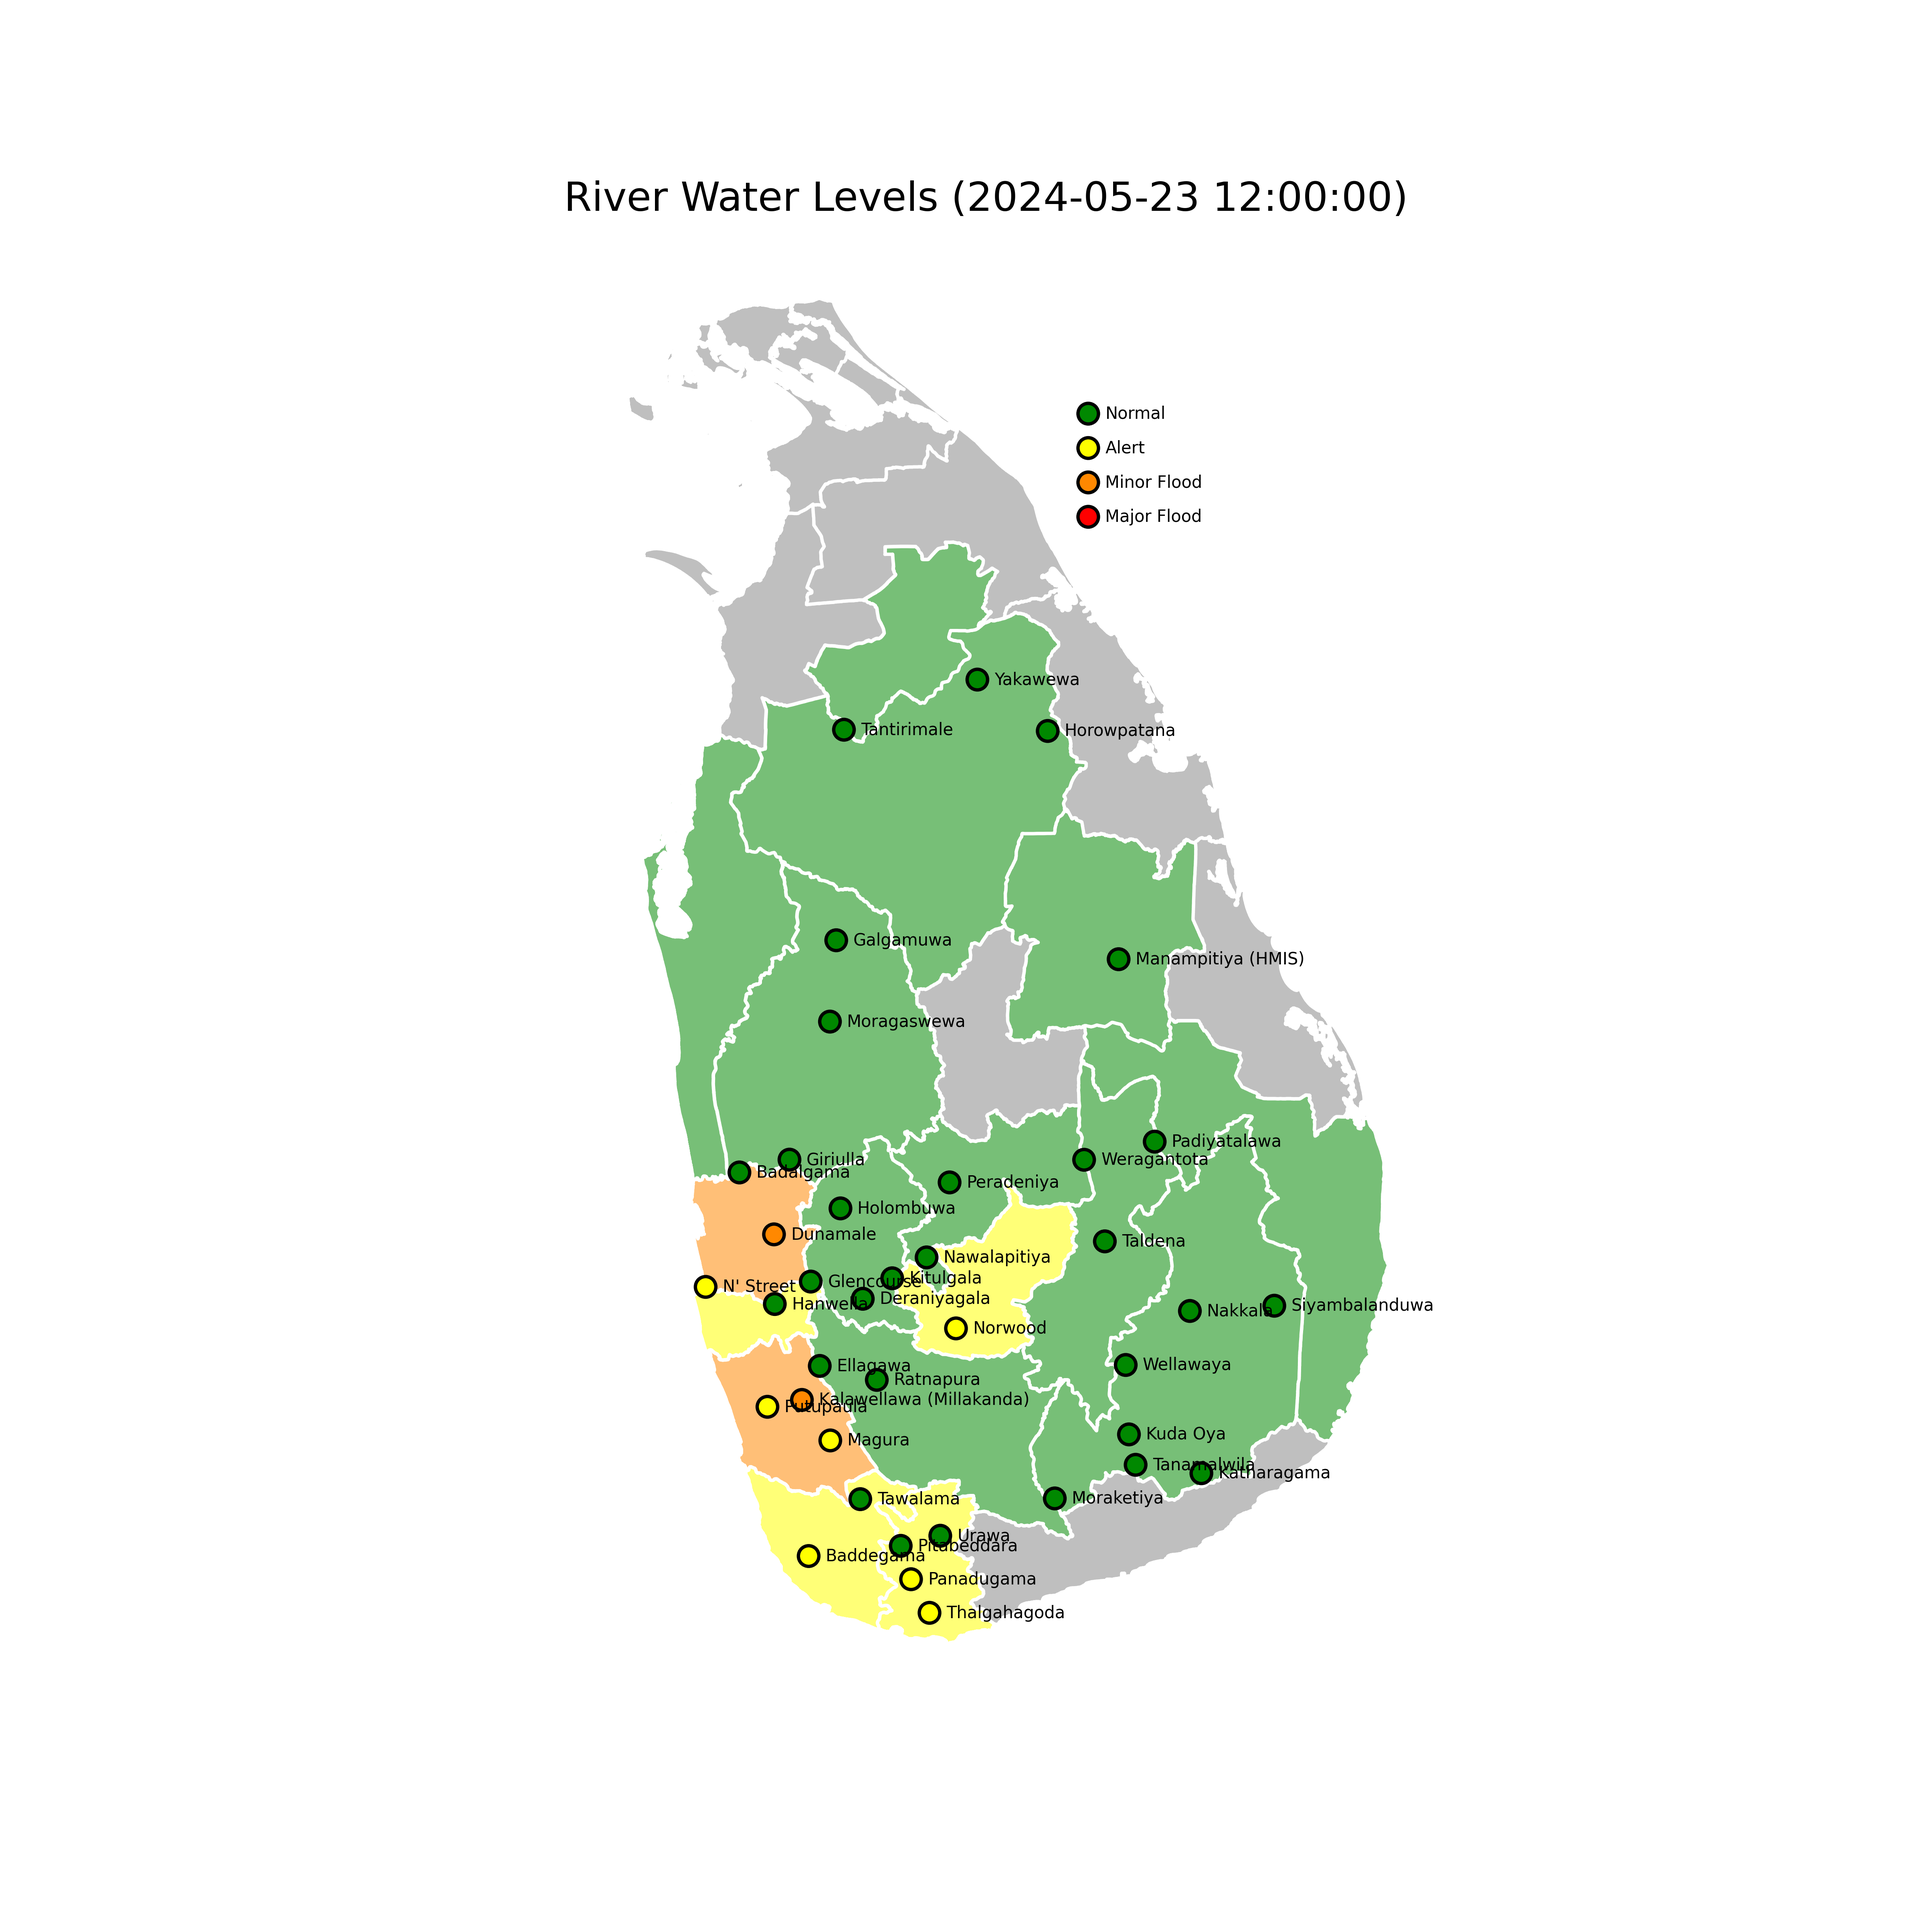
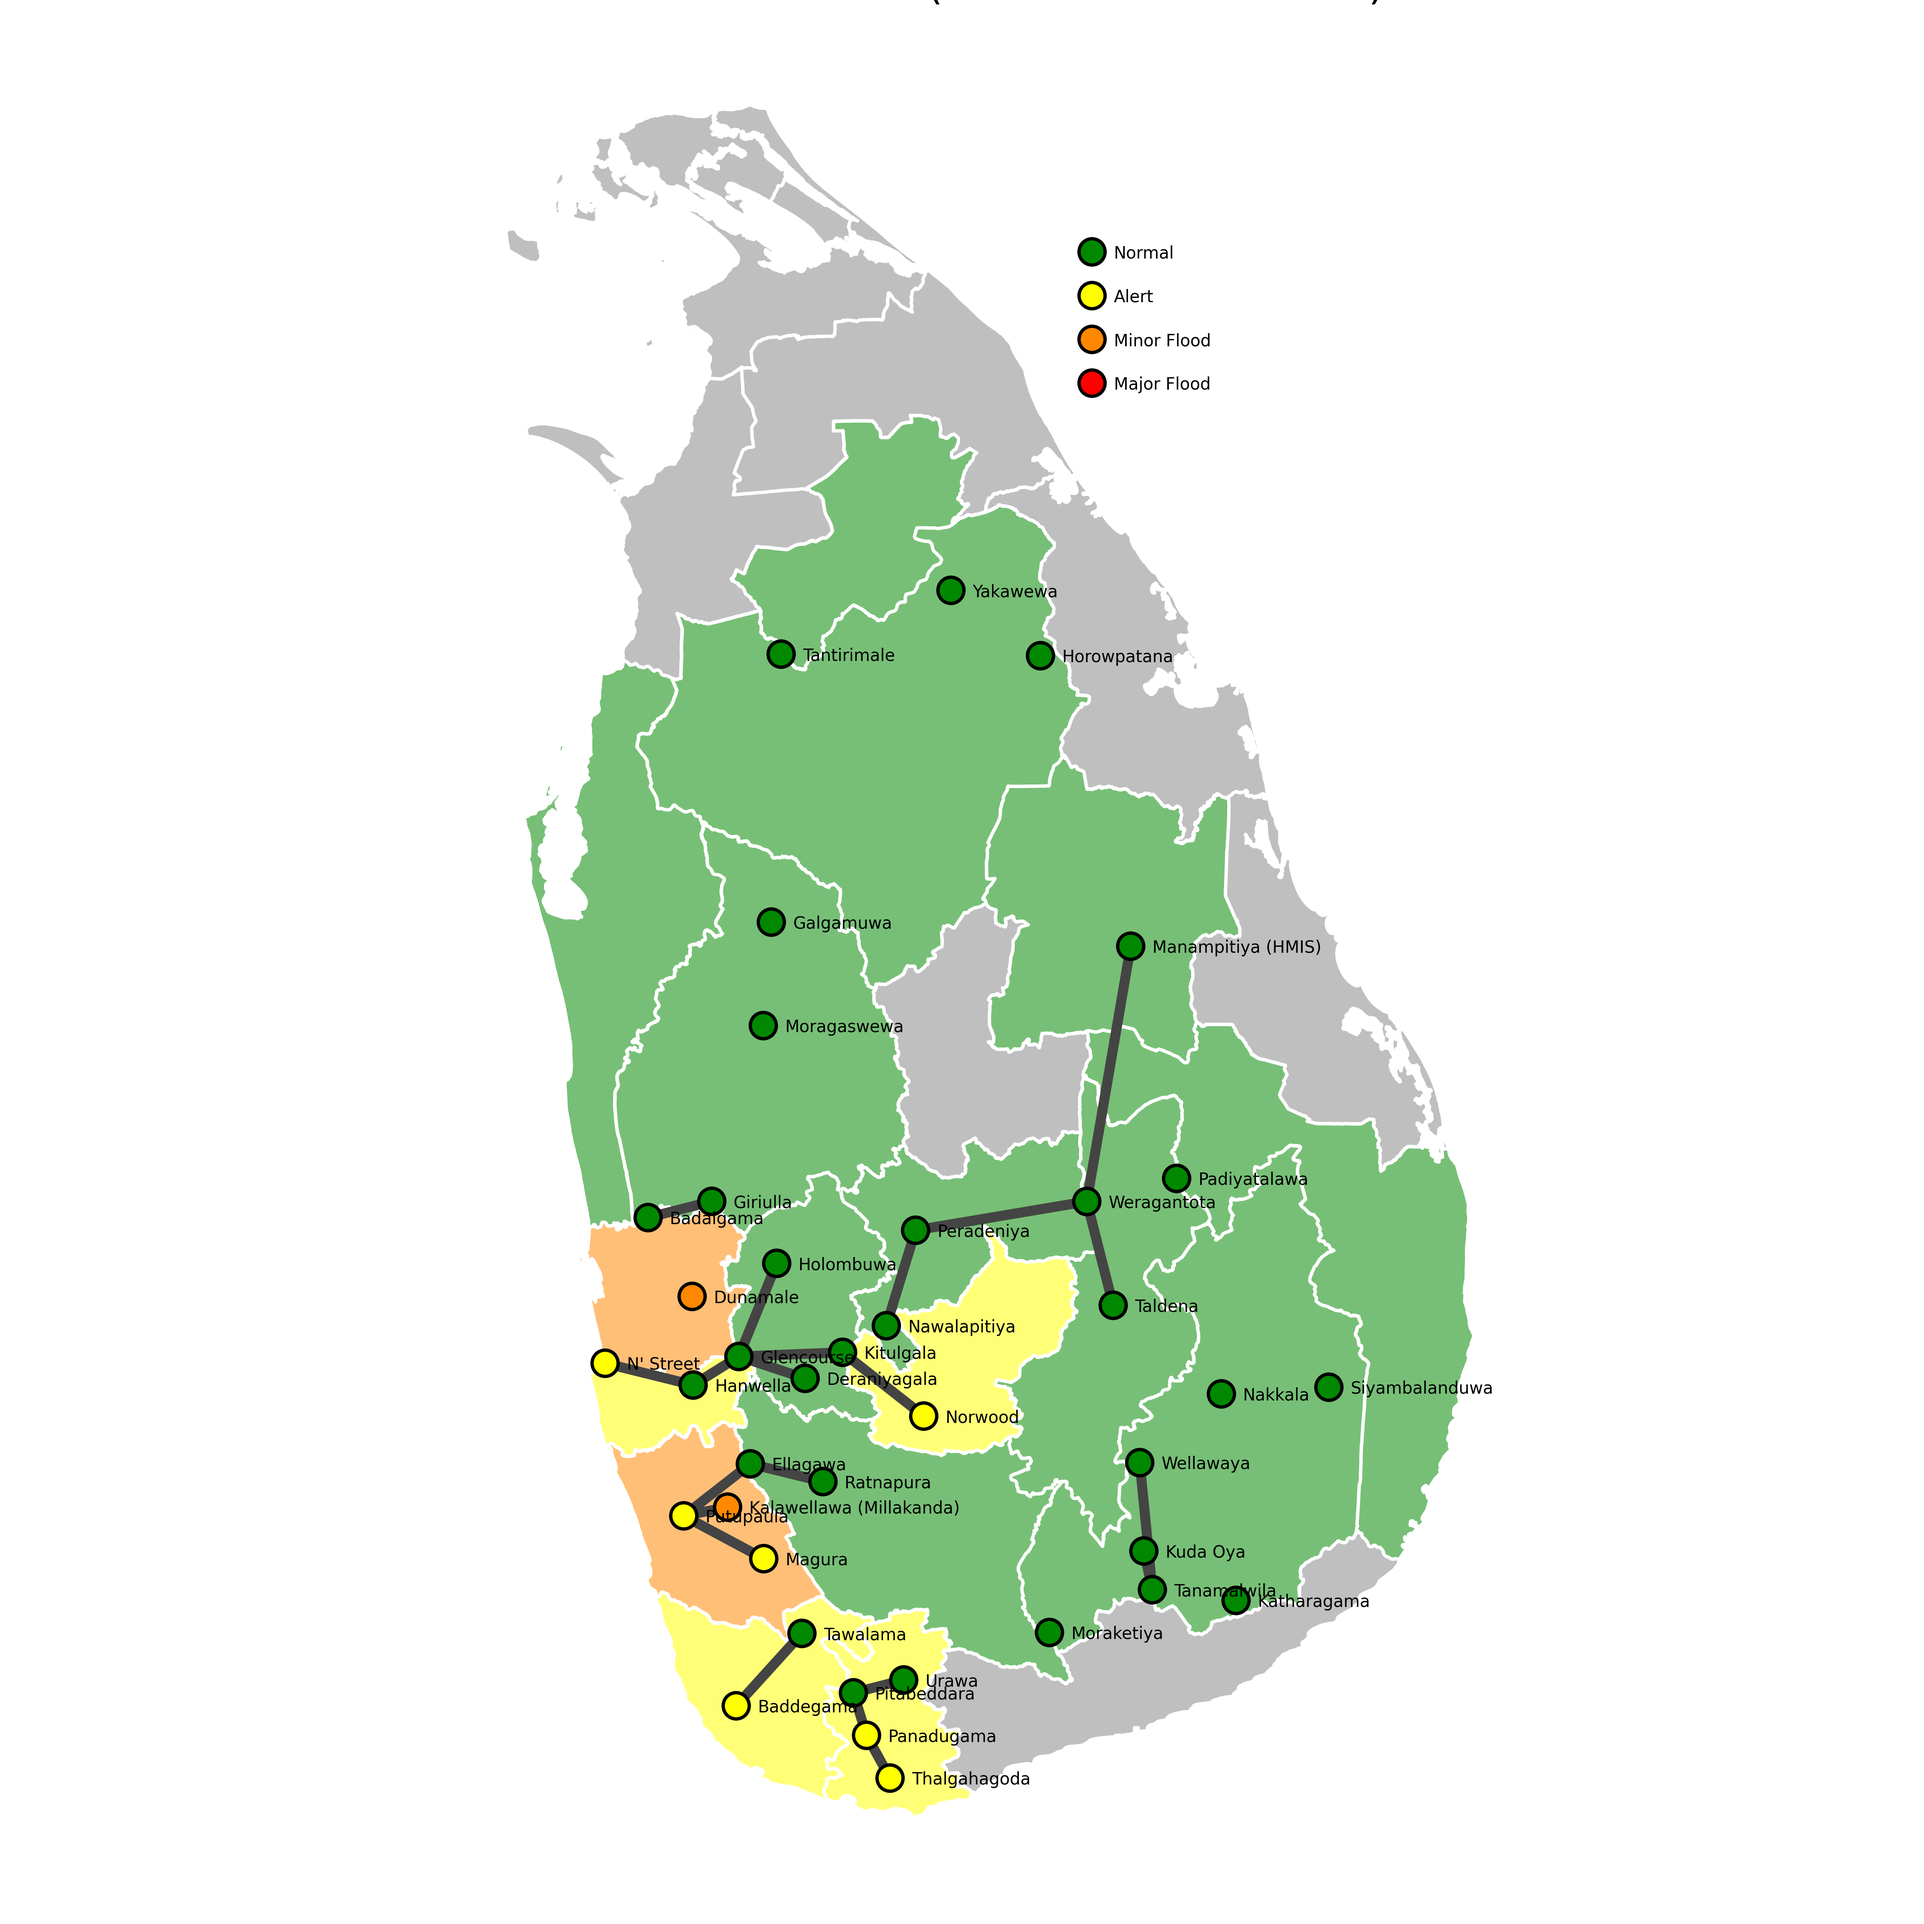
various

diff --git a/src/dmc/core/station/StationLinks.py b/src/dmc/core/station/StationLinks.py
@@ -1,0 +1,88 @@
+class StationLinks:
+    RIVERS = {
+        'Kelani': [
+            "N' Street",
+            "Hanwella",
+            "Glencourse",
+            "Kitulgala",
+        ],
+        'Gurugoda Oya': [
+            'Glencourse',
+            'Holombuwa',
+        ],
+        'Seethawaka Ganga': [
+            'Glencourse',
+            'Deraniyagala',
+        ],
+        'Kehelgamu Oya': [
+            'Kitulgala',
+            'Norwood',
+        ],
+        'Kalu Ganga': [
+            'Putupaula',
+            'Ellagawa',
+            'Ratnapura',
+        ],
+        'Maguru Ganga': [
+            'Putupaula',
+            'Magura',
+        ],
+        'Kuda Ganga': [
+            'Putupaula',
+            'Kalawellawa (Millakanda)'
+        ],
+        'Gin Ganga': [
+            'Baddegama',
+            'Tawalama',
+        ],
+        'Nilwala Ganga': [
+            'Thalgahagoda',
+            'Panadugama',
+            'Pitabeddara',
+        ],
+        'Urubokka Ganga': [
+            'Pitabeddara',
+            'Urawa',
+        ],
+        'Walawe Ganga': [
+            'Moraketiya'
+        ],
+        'Kirindi Oya': [
+            'Tanamalwila',
+            'Wellawaya',
+        ],
+        'Kuda Oya': [
+            'Tanamalwila',
+            'Kuda Oya',
+        ],
+        'Menik Ganga': [
+            'Katharagama',
+        ],
+        'Heda Oya': [
+            'Siyambalanduwa',
+        ],
+        'Maduru Oya': [
+            'Padiyatalawa',
+        ],
+        'Mahaweli Ganga': [
+            'Manampitiya (HMIS)',
+            'Weragantota',
+            'Peradeniya',
+            'Nawalapitiya',
+            
+        ],
+        'Badulu Oya': [
+            'Weragantota',
+            'Taldena',
+        ],
+        'Yan Oya': ['Horowpatana'],
+        'Mukunu Oya': ['Yakawewa'],
+        'Malwathu Oya': ['Tantirimale'],
+        'Mee Oya': ['Galgamuwa'],
+        'Deduru Oya': ['Moragaswewa'],
+        'Maha Oya': ['Badalgama', 'Giriulla'],
+        'Attanagalu Oya': ['Dunamale'],
+
+
+      
+    }

diff --git a/src/dmc/reports/RiverWaterLevelMap.py b/src/dmc/reports/RiverWaterLevelMap.py
@@ -3,7 +3,7 @@ import os
 import matplotlib.pyplot as plt
 from gig import Ent, EntType
 from utils import Log, Time, TimeFormat
-
+from matplotlib import collections as mc
 from dmc.core import RiverWaterLevel, Station
 
 log = Log('RiverWaterLevelMap')
@@ -25,8 +25,23 @@ class RiverWaterLevelMap:
         ents = Ent.list_from_type(self.ENT_TYPE)
         rwl_list = RiverWaterLevel.list_from_latest()
 
+
+
+        lines  = []
+        for  station_names in Station.RIVERS.values():
+            line = []
+            for station_name in station_names:
+                station = Station.from_name(station_name)
+                line.append([
+                    station.latLng.lng, station.latLng.lat
+                ])
+            lines.append(line)
+                
+        lc = mc.LineCollection(lines, colors='#444', linewidths=3)
+        lc.set_zorder(2)
         fig, ax = plt.subplots()
         fig.set_size_inches(8, 8)
+        ax.add_collection(lc)
 
         for ent in ents:
             max_level = 0
@@ -63,6 +78,7 @@ class RiverWaterLevelMap:
                     facecolor=color,
                     edgecolor="black",
                 )
+                circle.set_zorder(2)
                 ax.add_patch(circle)
                 plt.text(
                     station.latLng.lng + 0.05,
@@ -86,7 +102,8 @@ class RiverWaterLevelMap:
                 label,
                 fontsize=5,
             )
-
+        PADDING = 0.01
+        plt.subplots_adjust(left=PADDING, right=1-PADDING, top=1-PADDING, bottom=PADDING, wspace=PADDING*2, hspace=PADDING*2)
         ax.set_xticks([])
         ax.set_yticks([])
         ax.grid(False)

diff --git a/src/dmc/core/station/StationLatLngData.py b/src/dmc/core/station/StationLatLngData.py
@@ -14,7 +14,9 @@ class StationLatLngData:
         "Hanwella": LatLng(6.910489028063102, 80.08133984391833),
         "Holombuwa": LatLng(7.18861230041471, 80.27381001159266),
         "Horowpatana": LatLng(8.577144224946247, 80.88120305584708),
-        "Kalawellawa (Millakanda)": LatLng(6.6315078194386246, 80.16073462916866),
+        "Kalawellawa (Millakanda)": LatLng(
+            6.6315078194386246, 80.16073462916866
+        ),
         "Katharagama": LatLng(6.418350424146931, 81.33162402101244),
         "Kitulgala": LatLng(6.985283769517581, 80.42544930669654),
         "Kuda Oya": LatLng(6.531299778512797, 81.11931312403397),

diff --git a/src/dmc/core/station/Station.py b/src/dmc/core/station/Station.py
@@ -6,13 +6,14 @@ from utils import JSONFile, Log
 
 from dmc.core.station.StationDistrictData import StationDistrictData
 from dmc.core.station.StationLatLngData import StationLatLngData
+from dmc.core.station.StationLinks import StationLinks
 from utils_future import LatLng
 
 log = Log('Station')
 
 
 @dataclass
-class Station(StationLatLngData, StationDistrictData):
+class Station(StationLatLngData, StationDistrictData, StationLinks):
     DATA_PATH = os.path.join('data-static', 'stations.json')
 
     river_basin: str

diff --git a/src/dmc/__init__.py b/src/dmc/__init__.py
@@ -1,6 +1,6 @@
 # dmc (auto generate by build_inits.py)
 
 from dmc.core import (RiverWaterLevel, RiverWaterLevelParser, Station,
-                      StationDistrictData, StationLatLngData)
+                      StationDistrictData, StationLatLngData, StationLinks)
 from dmc.downloaders import GenericDownloader
 from dmc.reports import AlertReport, ReadMe, RiverWaterLevelMap

diff --git a/src/dmc/core/__init__.py b/src/dmc/core/__init__.py
@@ -2,4 +2,5 @@
 
 from dmc.core.RiverWaterLevel import RiverWaterLevel
 from dmc.core.RiverWaterLevelParser import RiverWaterLevelParser
-from dmc.core.station import Station, StationDistrictData, StationLatLngData
+from dmc.core.station import (Station, StationDistrictData, StationLatLngData,
+                              StationLinks)

diff --git a/src/dmc/core/station/__init__.py b/src/dmc/core/station/__init__.py
@@ -3,3 +3,4 @@
 from dmc.core.station.Station import Station
 from dmc.core.station.StationDistrictData import StationDistrictData
 from dmc.core.station.StationLatLngData import StationLatLngData
+from dmc.core.station.StationLinks import StationLinks
